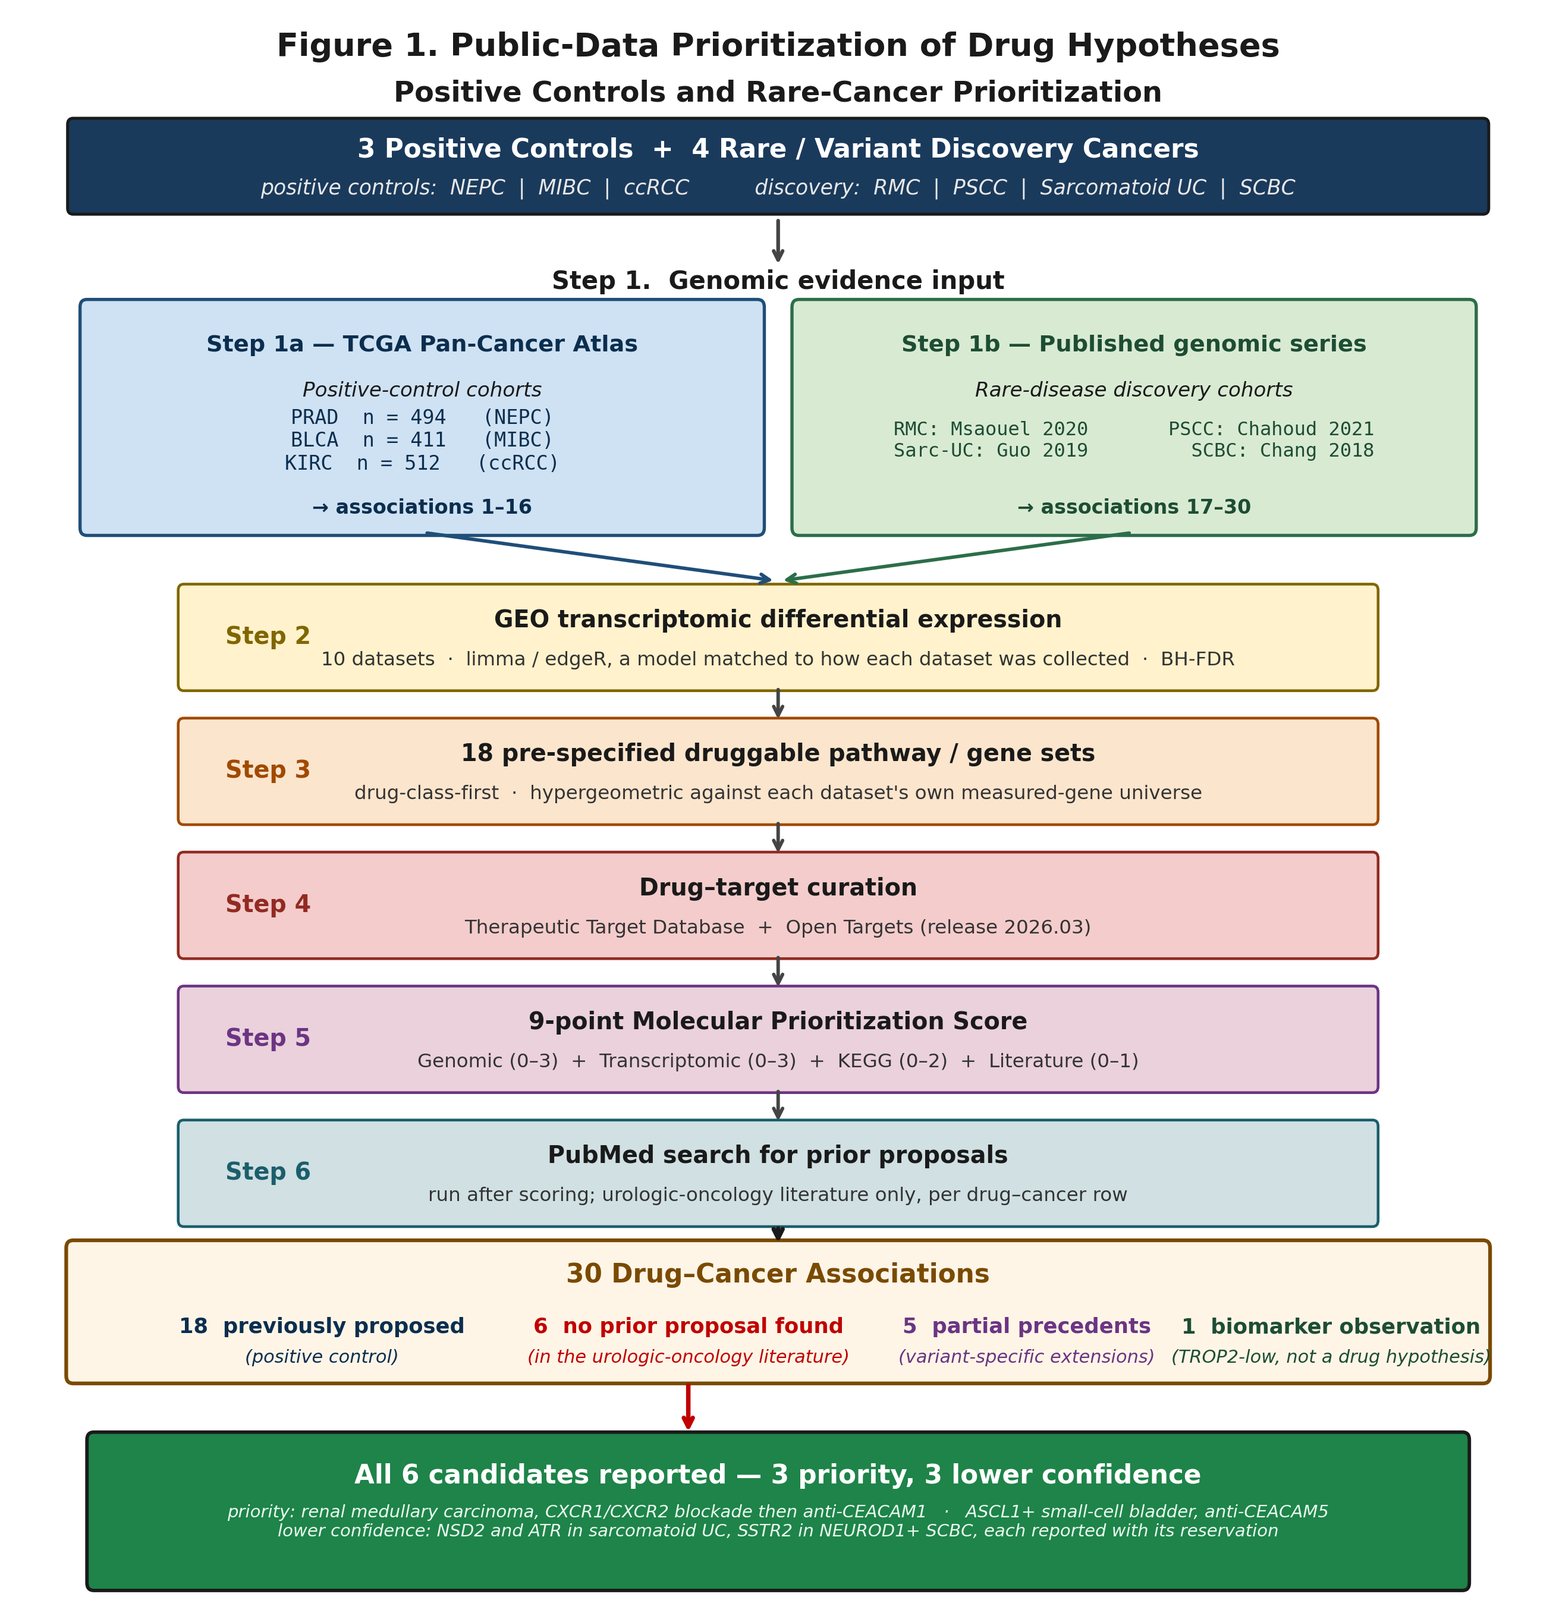
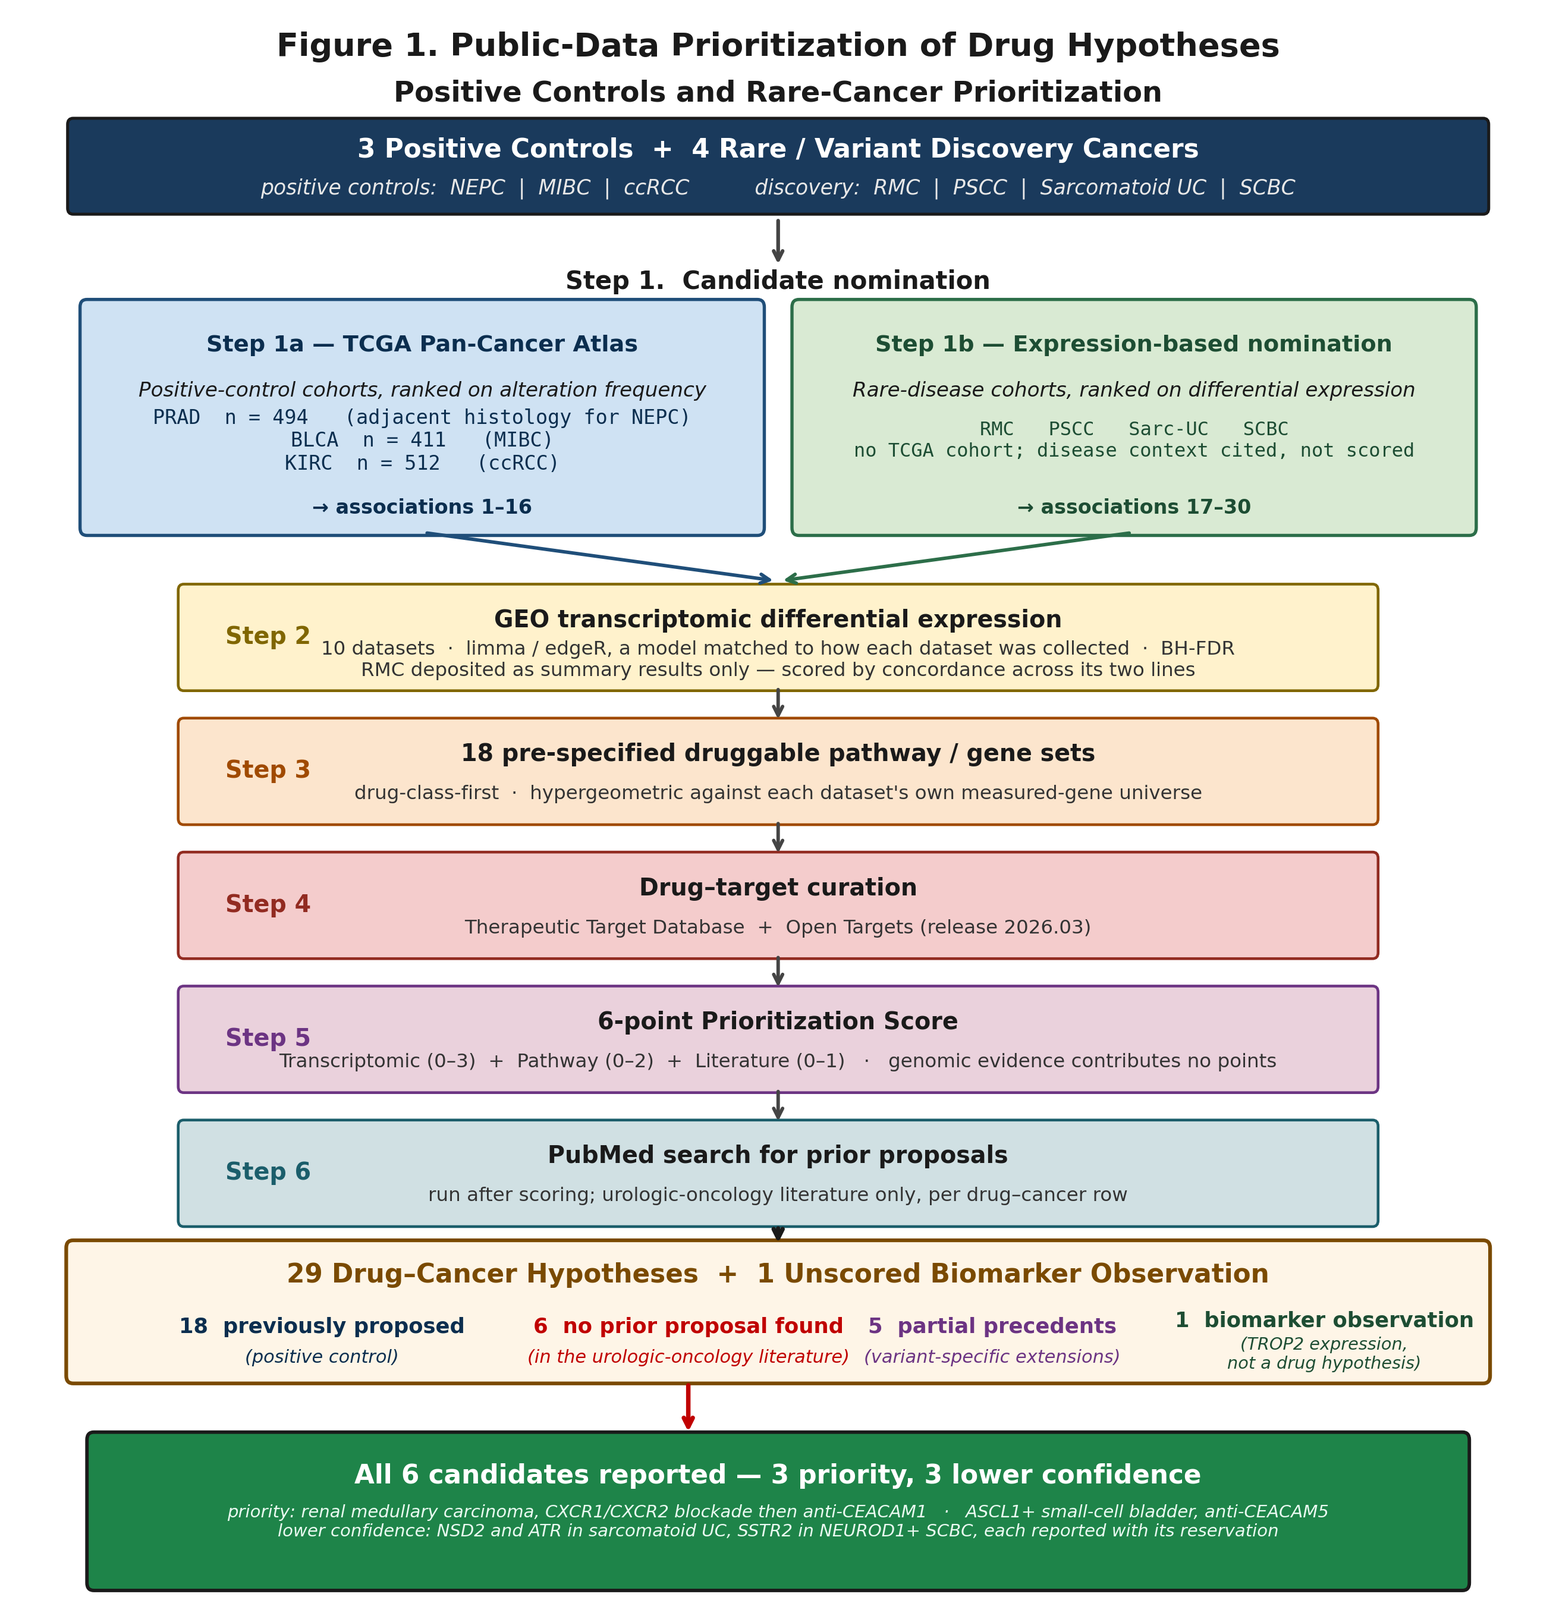
Repair the abstract, rebuild Figure 1 for the six-point score, and make Figure 5 encode the rules
The abstract Results paragraph was damaged by my own edit. Assigning generator
lines by absolute index overwrote neighbours, leaving "Criteria 6 none in the
urologic literature. The criteria prioritized 3: CXCR1/CXCR2 conjugates in
ASCL1-positive small-cell bladder cancer." - the novelty count duplicated and
the sentence naming the three prioritized hypotheses collapsed into one wrong
phrase. It now names all three correctly. The Methods sentence no longer reads
as though the composite score were refitted: expression was reanalyzed, and the
score was computed from it.

That defect shipped because my verification tested for specific strings rather
than reading the paragraph. Reading it was what found it.

Figure 1's caption had been rewritten; the image had not. It still showed a
9-point score with a genomic dimension, described the rare-cancer route as
genomic nomination, and headed its output "30 Drug-Cancer Associations". The
regenerated figure shows the 6-point score with genomic evidence contributing
no points, PRAD labelled as adjacent histology for NEPC, expression-based
nomination for the rare cancers with disease context cited and not scored, the
renal medullary summary-results exception in step 2, and "29 Drug-Cancer
Hypotheses + 1 Unscored Biomarker Observation". Regenerating exposed two
further defects: the step heading still read "Genomic evidence input" over a
route that is no longer genomic, and the longer TROP2 caption collided with the
[…]

diff --git a/code/pipeline/48_build_manuscript_v29.py b/code/pipeline/48_build_manuscript_v29.py
@@ -224,11 +224,11 @@ P(f"Methods. A curated set of drug-cancer associations was assembled from "
   f"{F['stage']['preclinical']} preclinical agents entered where nothing "
   f"clinical-stage targeted the protein. Differential expression across "
   f"{F['n_series_total']} datasets, enrichment across eighteen pre-specified "
-  f"gene sets and external mechanistic-literature concordance gave a 6-point "
-  f"score, refitted in limma and edgeR under models matched to each design "
-  f"except one series deposited only as a summary table. Associations were "
-  f"then classified by prior proposal and ranked by a rule written in "
-  f"advance.")
+  f"gene sets and mechanistic-literature concordance gave a 6-point "
+  f"score. Expression was reanalyzed in limma and edgeR under models matched "
+  f"to each design, except one series deposited only as summary results. "
+  f"Associations were "
+  f"then classified by prior proposal and ranked by a pre-specified rule.")
 P(f"Results. We evaluated {F['n_drug_hypotheses']} drug-cancer hypotheses "
   f"and one unscored "
   f"biomarker observation. {spell(F['n_complete_score']).capitalize()} carry a "
@@ -240,15 +240,15 @@ P(f"Results. We evaluated {F['n_drug_hypotheses']} drug-cancer hypotheses "
   f"proposed independently elsewhere. Among the {F['n_rare_hypotheses']} "
   f"rare-cancer hypotheses, {F['arm_discovery']['proposed']} were previously "
   f"proposed, {F['arm_discovery']['partial']} have a partial precedent and "
-  f"{F['arm_discovery']['novel']} none in the urologic literature. Criteria "
   f"{F['arm_discovery']['novel']} none in the urologic literature. The "
-  f"criteria prioritized {F['funnel']['survive']}: CXCR1/CXCR2 "
-  f"conjugates in ASCL1-positive small-cell bladder cancer. Restricting "
+  f"criteria prioritized {F['funnel']['survive']}: CXCR1/CXCR2 blockade and "
+  f"anti-CEACAM1 in renal medullary carcinoma, and anti-CEACAM5 conjugates "
+  f"in ASCL1-positive small-cell bladder cancer. Restricting "
   f"pathway points to targets in an enriched set retains CXCR1/CXCR2 and "
   f"anti-CEACAM5 but excludes anti-CEACAM1. Of the other "
   f"{F['arm_discovery']['novel'] - F['funnel']['survive']}, SSTR2 fails "
   f"the batch-adjusted transcriptomic criterion and the sarcomatoid rows "
-  f"cannot separate histology from array batch.")
+  f"cannot separate histology from batch.")
 P(f"Conclusion. Public data can prioritize drug hypotheses for cancers in "
   f"which prospective biomarker-directed trials are hard to conduct. Every "
   f"candidate is reported with its evidence and needs experimental "
@@ -820,9 +820,9 @@ FIGURES = [
      'recruited myeloid cells, which is why a tumor-cell monoculture does '
      'not evaluate it. Neither receptor was measured in this series. '
      'CXCL8 binds both receptors; CXCL1, '
-     'CXCL2 and CXCL3 are CXCR2-selective. The antagonists are '
-     'antagonists of the CXCR1/CXCR2 axis with differing receptor '
-     'selectivity: AZD5069, navarixin, reparixin and danirixin. Panel C created with '
+     'CXCL2 and CXCL3 are CXCR2-selective. The agents are CXCR1/CXCR2-axis '
+     'antagonists with differing receptor selectivity: AZD5069, navarixin, '
+     'reparixin and danirixin. Panel C created with '
      'BioRender.com.'),
     ('Figure3_SCBC.png', 6.9,
      'Figure 3. Lineage-stratified small-cell bladder cancer. (A) Subtype '
@@ -852,15 +852,18 @@ FIGURES = [
     ('Figure5_candidate_selection.png', 6.9,
      'Figure 5. Every candidate without a prior urologic-oncology proposal, '
      'against every criterion. Each cell carries a symbol as well as a color: '
-     '+ supports, '
-     '~ partial, \u2212 fails the criterion or contradicts, n/a cannot test. '
-     'The transcriptomic column records which arm the evidence comes from, '
-     'the second its total score, and the third whether it meets that '
-     'arm’s standard. Protein access records whether the target is '
+     '+ meets the criterion, ~ partly meets it, '
+     '− does not meet it, n/a cannot be tested. '
+     'The first column names which arm the evidence comes from and is left uncolored, '
+     'because a route is not a verdict; the second marks whether the total meets '
+     'the criterion of 4, and the third whether the evidence meets the standard '
+     'for its arm. Protein access records whether the target is '
      'reachable by the kind of agent proposed. The pathway column marks '
      'whether the target is itself a member of the enriched set, and reads '
-     'not computed for the sarcomatoid rows, whose only available '
-     'enrichment derives from the confounded comparison. '
+     'not in the selected sets where the target belongs to none of the '
+     'eighteen, which differs from the sarcomatoid rows, where it reads not '
+     'computed because their only enrichment derives from the confounded '
+     'comparison. '
      'The score is less strict than the column: it awards one point for '
      'enrichment or for membership and two for both, so a target can carry a '
      'pathway point without appearing in the set. Supplementary Table S2 gives '
@@ -983,6 +986,11 @@ P('Every association is accounted for in one class. The complete table, with '
 
 t = doc.add_table(rows=1, cols=6)
 t.style = 'Table Grid'
+# python-docx honours a width only when autofit is off, and the width has to
+# be set on every cell; the number column was taking as much room as the
+# drug column and forcing the long antagonist row to wrap
+t.autofit = False
+COL_IN = (0.32, 0.85, 2.05, 0.95, 1.45, 1.28)
 hdr = ['#', 'Context', 'Drug / target', 'Score \u00b7 evidence tier', 'Status',
        'Required next step']
 for c, h in zip(t.rows[0].cells, hdr):
@@ -1058,6 +1066,13 @@ def add_row(cells, bold=False, size=8.0):
             q.italic = True
     return row
 
+
+# the number column was taking as much width as the drug column, forcing the
+# long antagonist row to wrap; python-docx honours a width only with autofit
+# off and only when it is set on every cell
+for _row in t.rows:
+    for _c, _w in zip(_row.cells, COL_IN):
+        _c.width = Inches(_w)
 
 # narrow cell margins: the table is six columns of prose and the default
 # 0.08" left/right padding costs almost a page across thirty rows

diff --git a/code/pipeline/12_generate_figures.py b/code/pipeline/12_generate_figures.py
@@ -60,7 +60,7 @@ def generate_figure1():
     ax.annotate('', xy=(5.5, 7.35), xytext=(5.5, 7.70),
                 arrowprops=dict(arrowstyle='->', lw=1.5, color='#444'))
 
-    ax.text(5.5, 7.22, 'Step 1.  Genomic evidence input',
+    ax.text(5.5, 7.22, 'Step 1.  Candidate nomination',
             ha='center', fontsize=10, weight='bold', color='#1a1a1a')
 
     ax.add_patch(FancyBboxPatch((0.5, 5.65), 4.85, 1.45,
@@ -69,11 +69,13 @@ def generate_figure1():
     ax.text(2.925, 6.85, 'Step 1a — TCGA Pan-Cancer Atlas',
             ha='center', va='center', fontsize=9.2, weight='bold',
             color='#0b2e4f')
-    ax.text(2.925, 6.55, 'Positive-control cohorts',
+    ax.text(2.925, 6.55, 'Positive-control cohorts, ranked on alteration '
+            'frequency',
             ha='center', va='center', fontsize=8.2, style='italic',
             color='#1a1a1a')
     ax.text(2.925, 6.22,
-            'PRAD  n = 494   (NEPC)\nBLCA  n = 411   (MIBC)\n'
+            'PRAD  n = 494   (adjacent histology for NEPC)\n'
+            'BLCA  n = 411   (MIBC)\n'
             'KIRC  n = 512   (ccRCC)',
             ha='center', va='center', fontsize=8.0, color='#0b2e4f',
             family='monospace')
@@ -84,15 +86,16 @@ def generate_figure1():
     ax.add_patch(FancyBboxPatch((5.65, 5.65), 4.85, 1.45,
                                  boxstyle='round,pad=0.05',
                                  ec='#2c6e49', fc='#d9ead3', linewidth=1.3))
-    ax.text(8.075, 6.85, 'Step 1b — Published genomic series',
+    ax.text(8.075, 6.85, 'Step 1b — Expression-based nomination',
             ha='center', va='center', fontsize=9.2, weight='bold',
             color='#1d4d33')
-    ax.text(8.075, 6.55, 'Rare-disease discovery cohorts',
+    ax.text(8.075, 6.55, 'Rare-disease cohorts, ranked on differential '
+            'expression',
             ha='center', va='center', fontsize=8.2, style='italic',
             color='#1a1a1a')
     ax.text(8.075, 6.22,
-            'RMC: Msaouel 2020       PSCC: Chahoud 2021\n'
-            'Sarc-UC: Guo 2019         SCBC: Chang 2018',
+            'RMC   PSCC   Sarc-UC   SCBC\n'
+            'no TCGA cohort; disease context cited, not scored',
             ha='center', va='center', fontsize=7.7, color='#1d4d33',
             family='monospace')
     ax.text(8.075, 5.78, '→ associations 17–30',
@@ -107,7 +110,8 @@ def generate_figure1():
     unified_steps = [
         (4.62, 'Step 2',
          'GEO transcriptomic differential expression',
-         '10 datasets  ·  limma / edgeR, a model matched to how each dataset was collected  ·  BH-FDR',
+         '10 datasets  ·  limma / edgeR, a model matched to how each dataset was collected  ·  BH-FDR\n'
+         'RMC deposited as summary results only — scored by concordance across its two lines',
          '#fff2cc', '#806600'),
         (3.74, 'Step 3',
          '18 pre-specified druggable pathway / gene sets',
@@ -118,9 +122,9 @@ def generate_figure1():
          'Therapeutic Target Database  +  Open Targets (release 2026.03)',
          '#f4cccc', '#922b21'),
         (1.98, 'Step 5',
-         '9-point Molecular Prioritization Score',
-         'Genomic (0–3)  +  Transcriptomic (0–3)  +  '
-         'KEGG (0–2)  +  Literature (0–1)',
+         '6-point Prioritization Score',
+         'Transcriptomic (0–3)  +  Pathway (0–2)  +  '
+         'Literature (0–1)   ·   genomic evidence contributes no points',
          '#ead1dc', '#6c3483'),
         (1.10, 'Step 6',
          'PubMed search for prior proposals',
@@ -152,7 +156,7 @@ def generate_figure1():
                                  boxstyle='round,pad=0.05',
                                  ec='#7a4a00', fc='#fef5e7', linewidth=1.5))
     ax.text(5.50, 0.74,
-            '30 Drug–Cancer Associations',
+            '29 Drug–Cancer Hypotheses  +  1 Unscored Biomarker Observation',
             ha='center', va='center', fontsize=10.5, weight='bold',
             color='#7a4a00')
     ax.text(2.20, 0.40, '18  previously proposed',
@@ -167,17 +171,18 @@ def generate_figure1():
     ax.text(4.85, 0.20, '(in the urologic-oncology literature)',
             ha='center', va='center', fontsize=7.3, style='italic',
             color='#c00000')
-    ax.text(7.30, 0.40, '5  partial precedents',
+    ax.text(7.05, 0.40, '5  partial precedents',
             ha='center', va='center', fontsize=8.5, weight='bold',
             color='#6c3483')
-    ax.text(7.30, 0.20, '(variant-specific extensions)',
+    ax.text(7.05, 0.20, '(variant-specific extensions)',
             ha='center', va='center', fontsize=7.3, style='italic',
             color='#6c3483')
-    ax.text(9.50, 0.40, '1  biomarker observation',
+    ax.text(9.45, 0.44, '1  biomarker observation',
             ha='center', va='center', fontsize=8.5, weight='bold',
             color='#1d4d33')
-    ax.text(9.50, 0.20, '(TROP2-low, not a drug hypothesis)',
-            ha='center', va='center', fontsize=7.3, style='italic',
+    ax.text(9.45, 0.22, '(TROP2 expression,\nnot a drug hypothesis)',
+            ha='center', va='center', fontsize=6.9, style='italic',
+            linespacing=1.15,
             color='#1d4d33')
 
     # the independent checks moved to the Supplementary Materials; the
@@ -429,7 +434,7 @@ axB.grid(axis='x', alpha=0.3)
 
 panel_c_schematic(axC, SCHEMATICS / 'Figure3_PanelC_SarcUC.png',
                   'C. Proposed cellular mechanism — Sarcomatoid UC framework-'
-                  'novel targets + TROP2-low negative biomarker')
+                  'novel targets + TROP2 expression observation')
 
 plt.suptitle('Figure 3. Sarcomatoid Urothelial Carcinoma — Framework-Novel Findings',
              fontsize=12, weight='bold', y=0.99)

diff --git a/code/pipeline/42_figure5_selection_v29.py b/code/pipeline/42_figure5_selection_v29.py
@@ -39,7 +39,9 @@ master = pd.read_csv(RF / 'MASTER_TABLE_V29.csv')
 n_assoc = len(master)
 
 SUPPORT, PARTIAL, AGAINST, UNTESTED = '#1e8449', '#f4d03f', '#c0392b', '#bdc3c7'
-SYM = {SUPPORT: '+', PARTIAL: '~', AGAINST: '\u2212', UNTESTED: 'n/a'}
+# a route is not a verdict, so the column that names one is uncoloured
+NEUTRAL = '#e8eaed'
+SYM = {SUPPORT: '+', PARTIAL: '~', AGAINST: '\u2212', UNTESTED: 'n/a', NEUTRAL: ''}
 
 NAMES = {
     17: 'CXCR1/CXCR2 antagonists\n(renal medullary carcinoma)',
@@ -49,7 +51,7 @@ NAMES = {
     24: 'ATR inhibition\n(sarcomatoid urothelial)',
     29: '$^{177}$Lu-DOTATATE\n(NEUROD1+ small-cell bladder)',
 }
-COLS = ['Transcriptomic\nevidence', 'Score', 'Meets its arm\'s\nstandard',
+COLS = ['Evidence\nroute', 'Score \u2265 4', 'Meets its arm\'s\nstandard',
         'Target in\nenriched pathway', 'Protein\naccess',
         'Clinical access /\ndevelopment path']
 
@@ -67,12 +69,13 @@ for _, r in sel.iterrows():
     path_ok = bool(r.get('pathway_estimable', True))
     denom = int(r.get('total_denominator', 9) or 9)
     arm_abundance = pd.isna(r['E_refit_q'])
-    cells.append(PARTIAL if arm_abundance else SUPPORT)
+    cells.append(NEUTRAL)
     txt.append('abundance\n(no contrast)' if arm_abundance else 'disease\ncontrast')
 
     if True:
         total = int(r['total'])
-        cells.append(SUPPORT if total >= 7 else PARTIAL if total >= 4 else AGAINST)
+        # E2 asks for 4 or better of the points available for the row
+        cells.append(SUPPORT if total >= 4 else AGAINST)
         txt.append(f'{total}/{denom}')
 
         q = float(r['E_refit_q']) if pd.notna(r['E_refit_q']) else np.nan
@@ -99,7 +102,7 @@ for _, r in sel.iterrows():
             # the target sits in a pre-specified set that is not enriched
             cells.append(AGAINST); txt.append('set not\nenriched')
         else:
-            cells.append(UNTESTED); txt.append('not in\npanel')
+            cells.append(UNTESTED); txt.append('not in the\nselected sets')
 
     pl = str(r['protein_layer'])
     if 'confirmed' in pl:
@@ -129,7 +132,7 @@ for i in range(n_r):
         c = grid[i][j]
         axB.add_patch(plt.Rectangle((j, n_r - 1 - i), 1, 1, fc=c, ec='white',
                                     lw=2.0))
-        dark = c in (SUPPORT, AGAINST)
+        dark = c in (SUPPORT, AGAINST)  # NEUTRAL and PARTIAL take dark text
         axB.text(j + 0.5, n_r - 1 - i + 0.68, SYM[c], ha='center', va='center',
                  fontsize=11, weight='bold',
                  color='white' if dark else '#2c3e50')
@@ -153,11 +156,13 @@ axB.set_title(f'All {n_novel} candidates without a prior urologic-oncology '
               f'proposal, against every criterion', fontsize=10.2,
               weight='bold', pad=30, loc='left')
 
-handles = [plt.Rectangle((0, 0), 1, 1, fc=c, ec='white')
-           for c in (SUPPORT, PARTIAL, AGAINST, UNTESTED)]
-labels = ['+  supports', '~  partial', '\u2212  contradicts', 'n/a  cannot test']
+handles = [plt.Rectangle((0, 0), 1, 1, fc=c, ec='#b0b6bd')
+           for c in (SUPPORT, PARTIAL, AGAINST, UNTESTED, NEUTRAL)]
+labels = ['+  meets the criterion', '~  partly meets it',
+          '\u2212  does not meet it', 'n/a  cannot be tested',
+          '   route, not a verdict']
 axB.legend(handles, labels, loc='upper center', bbox_to_anchor=(0.5, -0.03),
-           ncol=4, frameon=False, fontsize=7.4)
+           ncol=5, frameon=False, fontsize=7.0)
 
 out = FIG / 'Figure5_candidate_selection.png'
 plt.savefig(out, bbox_inches='tight')

diff --git a/code/pipeline/46_figures_3_4_v29.py b/code/pipeline/46_figures_3_4_v29.py
@@ -132,6 +132,14 @@ for s_ in ('top', 'right'):
     axB.spines[s_].set_visible(False)
 
 
+def _ord(v):
+    """91 -> '91st'. The panel had a hardcoded 'th' suffix."""
+    i = int(round(v))
+    suf = ('th' if 10 <= i % 100 <= 20
+           else {1: 'st', 2: 'nd', 3: 'rd'}.get(i % 10, 'th'))
+    return f'{i}{suf}'
+
+
 # ---- C: what the rows are actually scored on ---------------------------
 # the contrast cannot be interpreted, so the transcriptomic component for this
 # context comes from within-group abundance; this panel is that quantity
@@ -154,7 +162,7 @@ for _yy, _g in zip(_y, _g_order):
     axC.plot([0, _v], [_yy, _yy], color=_c, lw=1.6, alpha=0.55, zorder=1,
              solid_capstyle='round')
     axC.scatter([_v], [_yy], s=70, color=_c, edgecolor=_c, zorder=3)
-    axC.text(_v + 1.5, _yy, f'{_v:.0f}th', va='center', fontsize=7.4,
+    axC.text(_v + 1.5, _yy, _ord(_v), va='center', fontsize=7.4,
              color=_c, weight='bold')
 axC.axvline(85, ls='--', lw=0.9, c='#888')
 axC.set_ylim(-0.95, len(_g_order) - 0.55)

diff --git a/code/pipeline/38_extract_row_definitions.py b/code/pipeline/38_extract_row_definitions.py
@@ -121,8 +121,8 @@ TARGET_OVERRIDE = {
 DRUG_OVERRIDE = {
     # Seclidemstat (SP-2577) is an LSD1/KDM1A inhibitor, not an NSD2 inhibitor,
     # and does not belong in this row.
-    17: 'CXCR2-directed antagonists, including agents with additional CXCR1 '
-        'activity (AZD5069, navarixin, reparixin, danirixin)',
+    17: 'CXCR1/CXCR2-axis antagonists with differing receptor '
+        'selectivity (AZD5069, navarixin, reparixin, danirixin)',
     23: 'Gintemetostat (KTX-1001)',
     # The representative agent for the class is now the agent in development.
     28: 'Precemtabart tocentecan (M9140), anti-CEACAM5 ADC',
